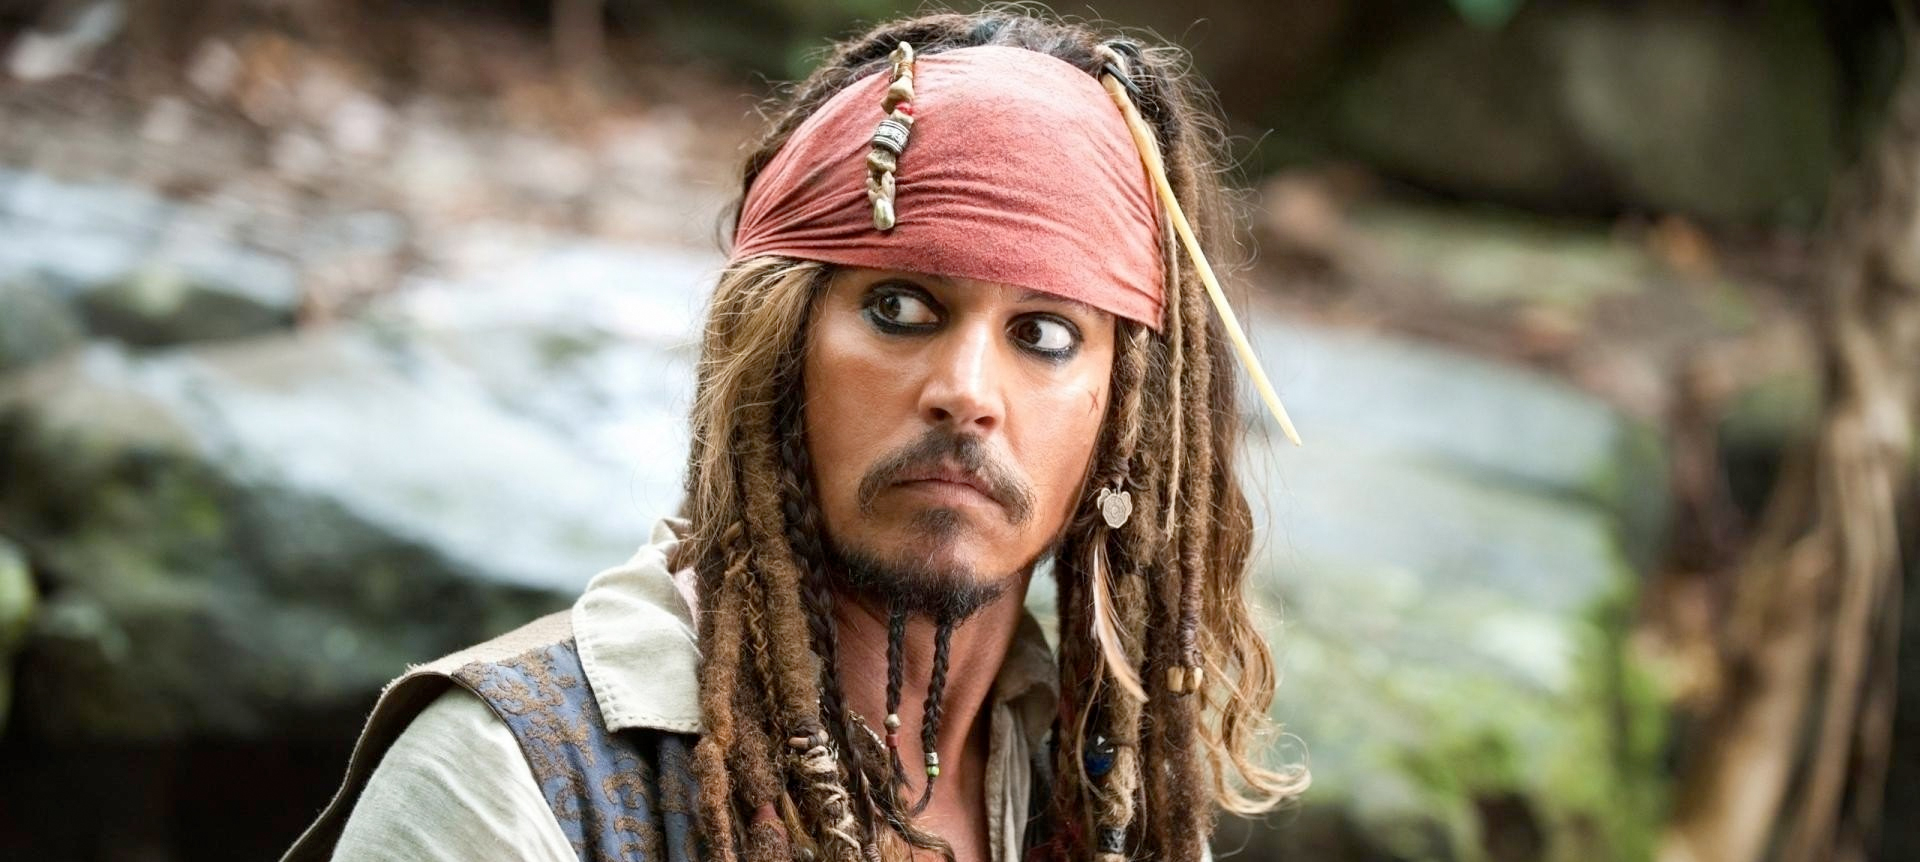
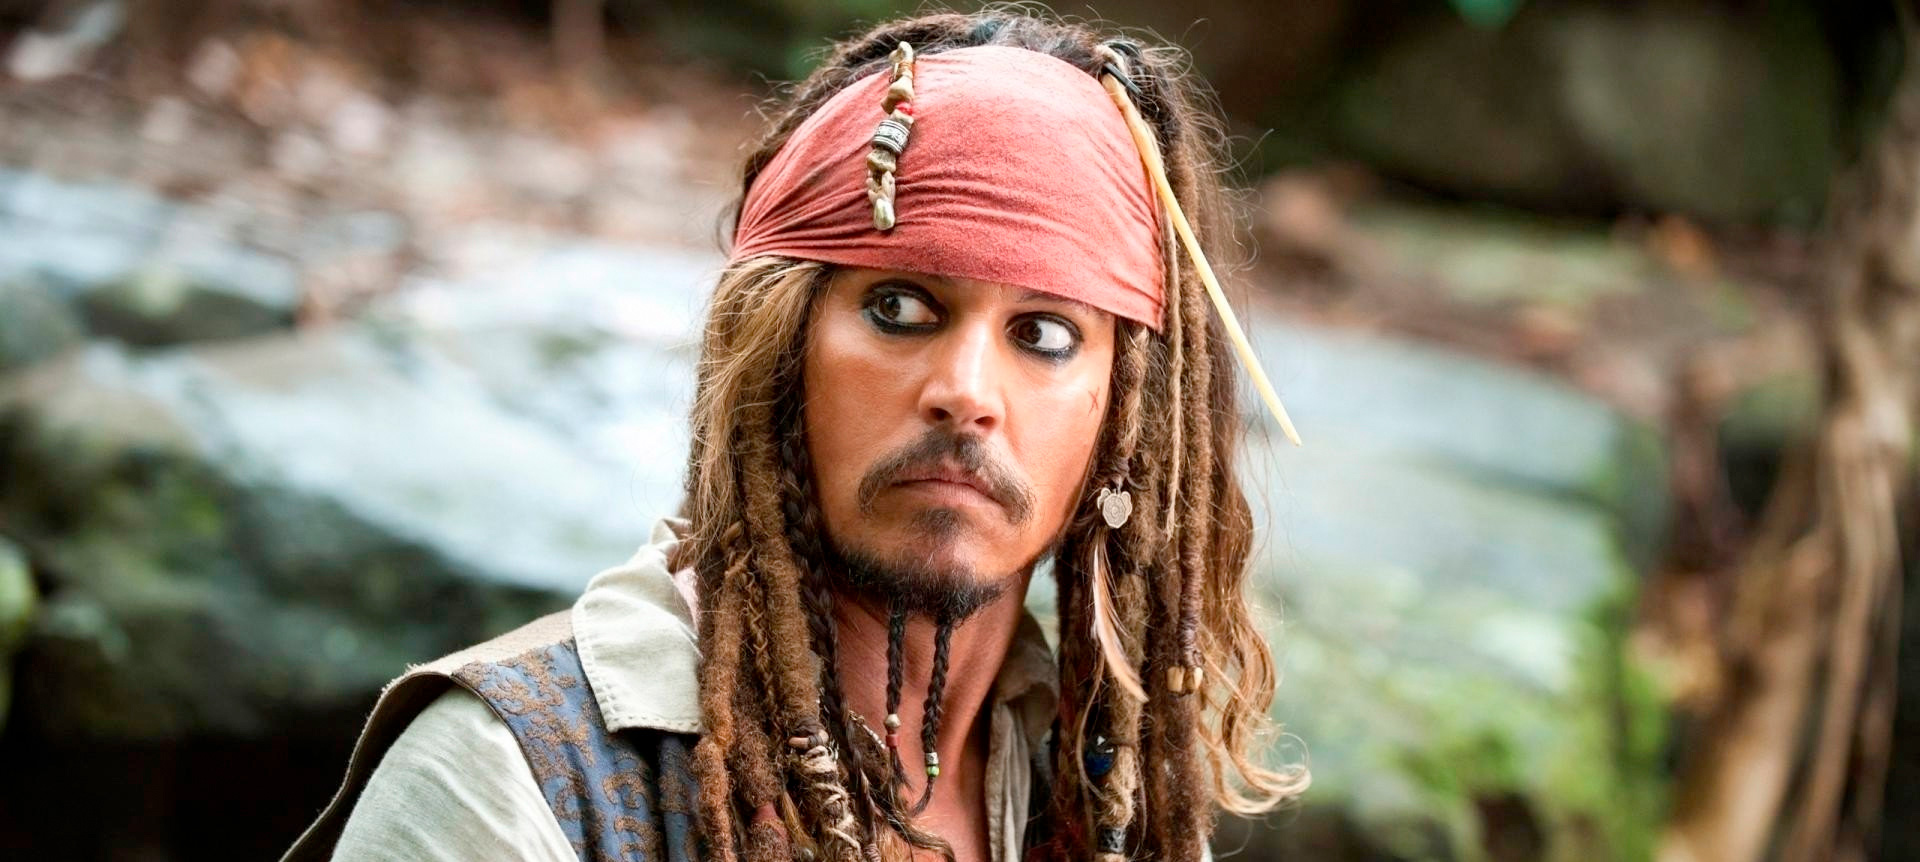
kleinere mediabestanden

Changed region(s): [[0.4062, 0.1206, 0.5625, 0.3318], [0.375, 0.2413, 0.4062, 0.2715]]

diff --git a/index.html b/index.html
@@ -23,7 +23,7 @@
 <!--jumbotron-->
 
 <div class="jumbotron jumbotron-fluid">
-    <img src="styles/images/jumbotron.png" alt="introductiefoto" class="img-fluid">
+    <img src="styles/images/jumbotron.jpg" alt="introductiefoto" class="img-fluid">
 </div>
 
 
@@ -220,7 +220,7 @@
 
 <!--footer -->
 <div class="jumbotron jumbotron-fluid">
-        <img src="styles/images/footerimg.png" alt="footerafbeelding" class="img-fluid">
+        <img src="styles/images/footerimg.jpg" alt="footerafbeelding" class="img-fluid">
     </div>
 
 <div class="jumbotron_6">
